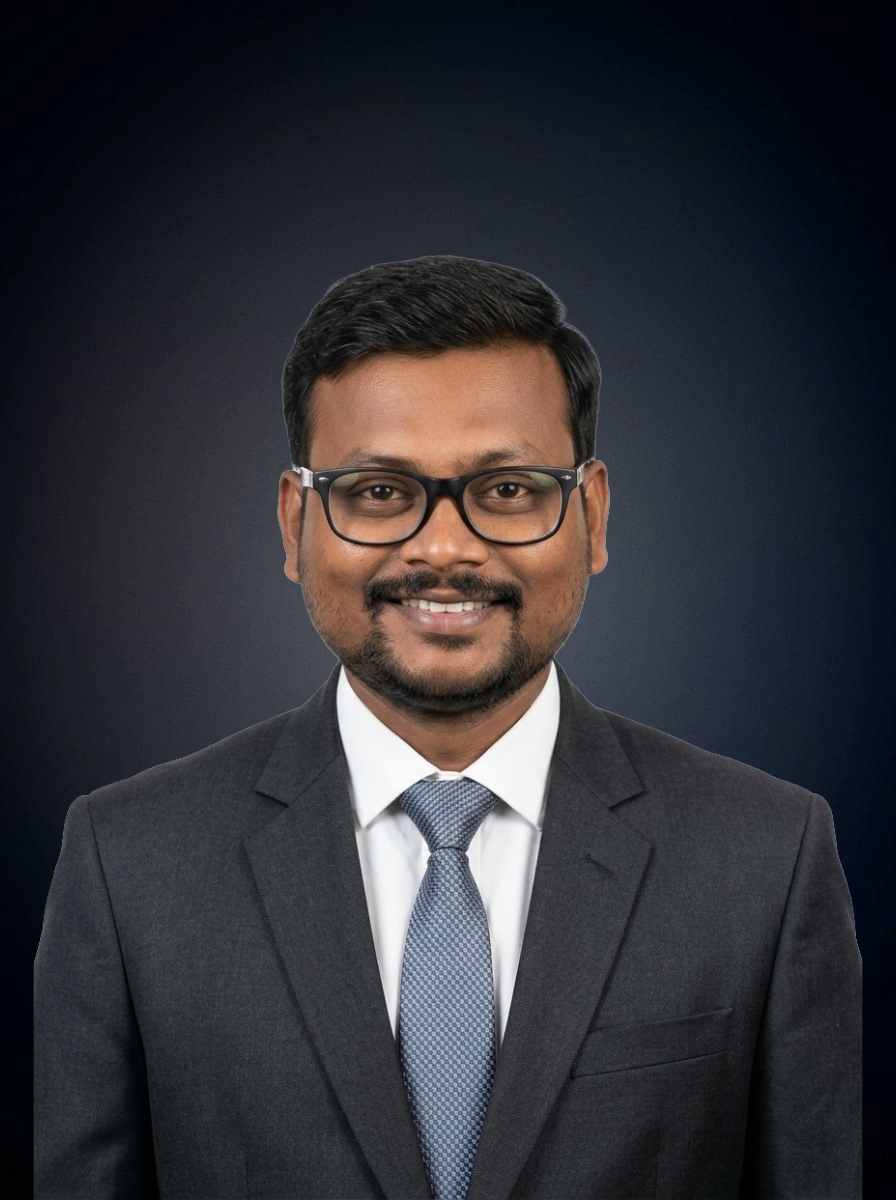
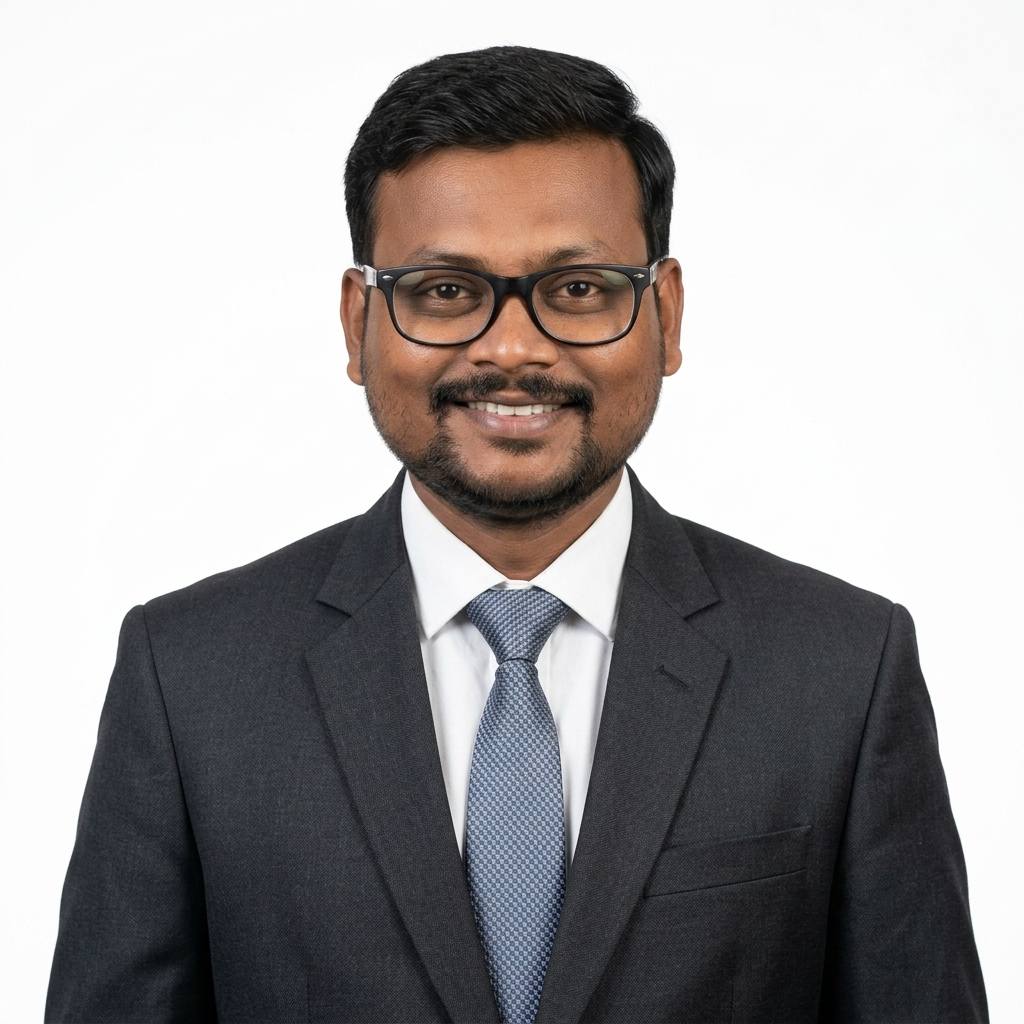
Update Faculty Coordinator portraits with new White BG high-resolution photos

diff --git a/assets/css/components.css b/assets/css/components.css
@@ -2395,7 +2395,7 @@
   width: 100%;
   height: 100%;
   object-fit: cover;
-  object-position: center 12%;
+  object-position: center center;
   transition: transform 0.4s ease;
 }
 
